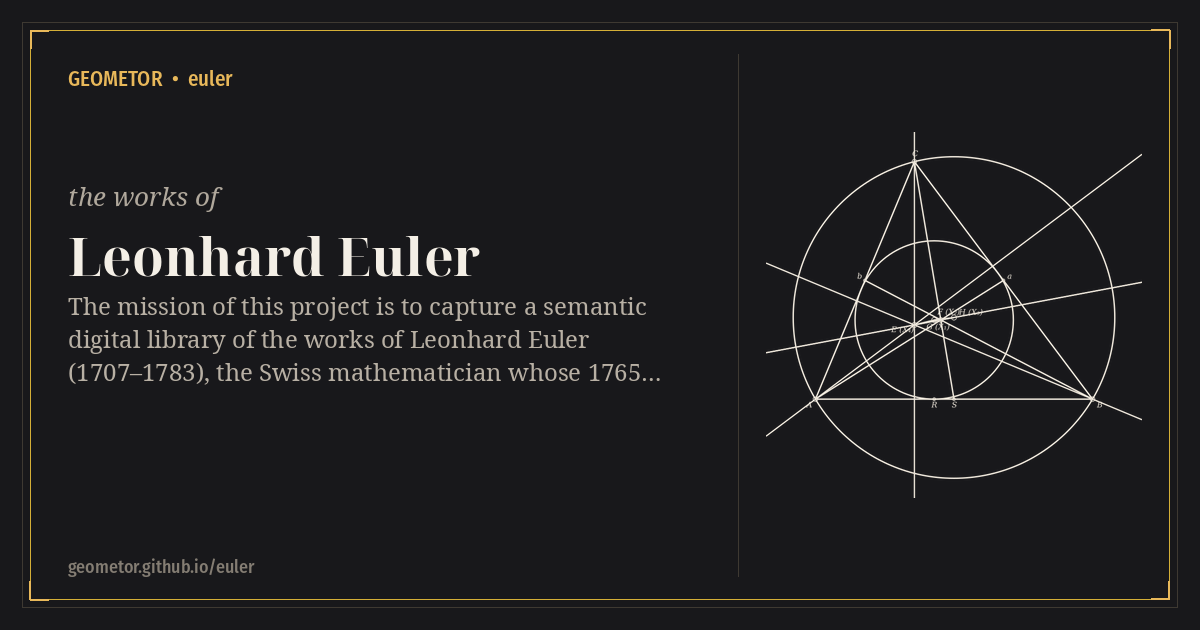
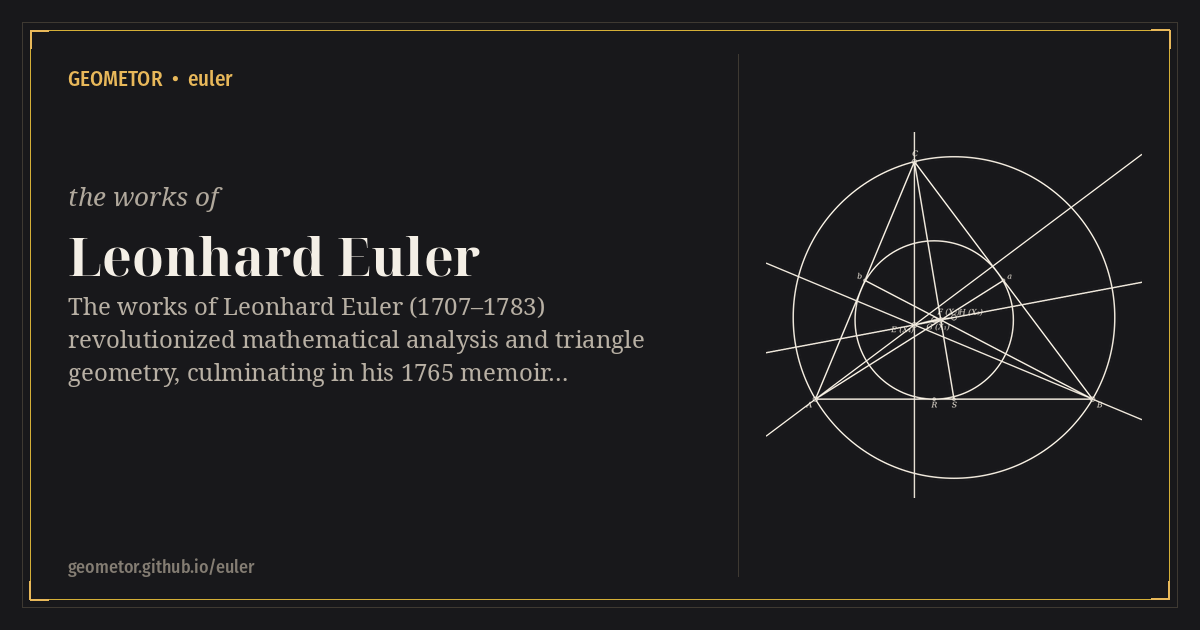
docs: add construction hero images, elevate English titles with native title tracks, and standardize track menus

Changed region(s): [[0.0617, 0.4524, 0.555, 0.6032]]

diff --git a/docsrc/solutio_facilis_1765/index.rst b/docsrc/solutio_facilis_1765/index.rst
@@ -1,28 +1,31 @@
 :navigation: header
 :order: 1
 :type: book
-:nav_title: Solutio Facilis (1765)
-:breadcrumb_title: Solutio Facilis
+:title: An Easy Solution of Certain Very Difficult Geometric Problems
+:nav_title: Easy Solution
+:breadcrumb_title: Easy Solution
 :layout: book
-:book_title: Solutio facilis problematum quorumdam geometricorum difficillimorum
+:book_title: An Easy Solution of Certain Very Difficult Geometric Problems
+:book_subtitle: Solutio facilis problematum quorumdam geometricorum difficillimorum (1765)
 :author: Leonhard Euler
 :year: 1765
+:tracks: English: index | Latin: title-la
 :excerpt: Euler's 1765 St. Petersburg memoir discovering the Euler line connecting the orthocenter, centroid, and circumcenter of every triangle, deriving the six mutual quadrances among the four classical triangle centers, and solving the inverse reconstruction problem via symmetric polynomials.
 
 .. _solutio_facilis_1765-index:
 .. _euler-1765-index:
 
-Solutio facilis problematum quorumdam geometricorum difficillimorum
-===================================================================
+An Easy Solution of Certain Very Difficult Geometric Problems
+=============================================================
 
-.. rubric:: *An Easy Solution of Certain Very Difficult Geometric Problems* — :person:`Leonhard Euler <euler>` (Eneström **E325**)
+.. rubric:: *Solutio facilis problematum quorumdam geometricorum difficillimorum* — :person:`Leonhard Euler <euler>` (1765, Eneström **E325**)
 
 .. container:: title-page
 
    | **Author:** :person:`Leonhard Euler <euler>`
-   | **First Edition (Latina, 1767):** *Novi Commentarii Academiae Scientiarum Imperialis Petropolitanae*, Tom. XI pro Anno MDCCLXV, Petropoli: Typis Academiae Scientiarum, MDCCLXVII, pp. 103–123, Tab. II Fig. 1–9 (*Opera Omnia*, Ser. I, Vol. 26, pp. 139–157).
+   | **First Edition (Latin, 1767):** *Novi Commentarii Academiae Scientiarum Imperialis Petropolitanae*, Tom. XI pro Anno MDCCLXV, Petropoli: Typis Academiae Scientiarum, MDCCLXVII, pp. 103–123, Tab. II Fig. 1–9 (*Opera Omnia*, Ser. I, Vol. 26, pp. 139–157).
    | **English Translation:** Original folio-verified translation curated for the GEOMETOR Digital Scriptorium.
-   | **Synchronized 4-Track Codex:** *English · Latina (1767) · Summary · Notes*, paired with exact symbolic verification in :mod:`geometor.euler`.
+   | **Synchronized 4-Track Codex:** *English · Latin · Summary · Notes*, paired with exact symbolic verification in :mod:`geometor.euler`.
 
 .. epigraph::
 
@@ -42,22 +45,22 @@ Table of Contents
 .. container:: toc-outline
 
    - **§§ 1–9 — The Four Classical Triangle Centers & Orthogonal Coordinates** *(pp. 103–107)*
-     (:ref:`English <euler-01-en>` · :ref:`Latina <euler-01-la>` · :ref:`Summary <euler-01-summary>` · :ref:`Notes <euler-01-notes>`)
+     (:ref:`English <euler-01-en>` · :ref:`Latin <euler-01-la>` · :ref:`Summary <euler-01-summary>` · :ref:`Notes <euler-01-notes>`)
 
      Enumeration of the four classical concurrency centers :math:`E = X(4)` (orthocenter), :math:`F = X(2)` (centroid), :math:`G = X(1)` (incenter), and :math:`H = X(3)` (circumcenter), formulation of the inverse determination problem, and derivation of their rational orthogonal coordinates on base :math:`AB = c`.
 
    - **§§ 10–18 — Symmetric Polynomials, Six Mutual Quadrances & The Euler Line** *(pp. 107–114)*
-     (:ref:`English <euler-02-en>` · :ref:`Latina <euler-02-la>` · :ref:`Summary <euler-02-summary>` · :ref:`Notes <euler-02-notes>`)
+     (:ref:`English <euler-02-en>` · :ref:`Latin <euler-02-la>` · :ref:`Summary <euler-02-summary>` · :ref:`Notes <euler-02-notes>`)
 
      Change of variables to the :term:`elementary symmetric polynomials <symmetric-polynomials>` :math:`p = a+b+c`, :math:`q = ab+ac+bc`, :math:`r = abc`, symmetric Heron expansion :math:`16A^2 = -p^4 + 4p^2q - 8pr`, closed-form derivation of all six squared inter-center distances (Formulas I–VI), discovery of the :term:`Euler Line <euler-line>` (:math:`FH = \tfrac{1}{2}EF`, :math:`EH = \tfrac{3}{2}EF`), and the compatibility law :math:`4GH^2 + 2EG^2 = 3EF^2 + 6FG^2`.
 
    - **§§ 19–24 — The Inverse Reconstruction Problem & Side-Length Cubic** *(pp. 114–118)*
-     (:ref:`English <euler-03-en>` · :ref:`Latina <euler-03-la>` · :ref:`Summary <euler-03-summary>` · :ref:`Notes <euler-03-notes>`)
+     (:ref:`English <euler-03-en>` · :ref:`Latin <euler-03-la>` · :ref:`Summary <euler-03-summary>` · :ref:`Notes <euler-03-notes>`)
 
      Reduction of the inverse problem (“given the four centers :math:`E, F, G, H`, construct the triangle”) to auxiliary invariants :math:`P = p^2`, :math:`Q = r/p`, :math:`R = r^2/(4A^2)`, exact cancellation of the quadratic term :math:`Q^2` yielding rational :math:`(P, q, Q)`, Viète's cubic :math:`z^3 - pz^2 + qz - r = 0`, and the integer benchmark :math:`(5, 6, 7) \implies z^3 - 18z^2 + 107z - 210 = 0`.
 
    - **§§ 25–34 — Collinear Centers, Isosceles Degeneracy & Casus Irreducibilis** *(pp. 118–123)*
-     (:ref:`English <euler-04-en>` · :ref:`Latina <euler-04-la>` · :ref:`Summary <euler-04-summary>` · :ref:`Notes <euler-04-notes>`)
+     (:ref:`English <euler-04-en>` · :ref:`Latin <euler-04-la>` · :ref:`Summary <euler-04-summary>` · :ref:`Notes <euler-04-notes>`)
 
      Analysis of the degenerate case in which :math:`G` lies on the Euler line :math:`EH` (forcing an isosceles triangle with rational root :math:`z = c`), the four positional regimes relative to midpoint :math:`I`, symmetric parameterization by :math:`(e, f, k) = (EG, GH, EH)`, reality *diorismos* inequalities, and angle trisection in the :term:`casus irreducibilis <casus-irreducibilis>`.
 
@@ -82,7 +85,7 @@ Scholarly Apparatus
 .. toctree::
    :maxdepth: 1
    :hidden:
-   :caption: First Latin Edition (1767)
+   :caption: Latin Edition
 
    01-four-centers-la
    02-six-distances-euler-line-la
@@ -102,3 +105,10 @@ Scholarly Apparatus
    03-reconstruction-cubic-notes
    04-collinear-isosceles-casus-summary
    04-collinear-isosceles-casus-notes
+
+.. toctree::
+   :maxdepth: 1
+   :hidden:
+   :caption: Title Pages
+
+   title-la

diff --git a/docsrc/solutio_facilis_1765/title-la.rst b/docsrc/solutio_facilis_1765/title-la.rst
@@ -1,0 +1,57 @@
+:type: book_title
+:layout: book
+:title: Solutio facilis problematum quorumdam geometricorum difficillimorum
+:book_title: Solutio facilis problematum quorumdam geometricorum difficillimorum
+:book_subtitle: Leonhardus Euler (Petropoli, MDCCLXVII)
+:author: Leonhardus Euler
+:toc_label: Conspectus
+:persons_label: Index Nominum
+:bibliography_label: Bibliographia
+:glossary_label: Glossarium
+:tracks: English: index | Latin: title-la
+
+.. _solutio_facilis_1765-title-la:
+
+Solutio facilis problematum quorumdam geometricorum difficillimorum
+===================================================================
+
+.. rubric:: *Leonhardus Euler* — Petropoli, Typis Academiae Scientiarum, MDCCLXVII (E325)
+
+.. container:: title-page
+
+   | **Auctor:** :person:`Leonhardus Euler <euler>`
+   | **Editio Princeps:** *Novi Commentarii Academiae Scientiarum Imperialis Petropolitanae*, Tom. XI pro Anno MDCCLXV (1767), pp. 103–123
+
+----
+
+Conspectus Totius Operis
+------------------------
+
+§§ 1–9 — De Quatuor Punctis Notabilibus Trianguli et Coordinatis Orthogonis
+~~~~~~~~~~~~~~~~~~~~~~~~~~~~~~~~~~~~~~~~~~~~~~~~~~~~~~~~~~~~~~~~~~~~~~~~~~~~
+
+:ref:`Latin <euler-01-la>` · :ref:`English <euler-01-en>` · :ref:`Summary <euler-01-summary>` · :ref:`Notes <euler-01-notes>`
+
+§§ 10–18 — Functiones Symmetricae, Sex Distantiae Mutuae et Linea Euleriana
+~~~~~~~~~~~~~~~~~~~~~~~~~~~~~~~~~~~~~~~~~~~~~~~~~~~~~~~~~~~~~~~~~~~~~~~~~~~~
+
+:ref:`Latin <euler-02-la>` · :ref:`English <euler-02-en>` · :ref:`Summary <euler-02-summary>` · :ref:`Notes <euler-02-notes>`
+
+§§ 19–24 — Problema Inversum et Aequatio Cubica Laterum Trianguli
+~~~~~~~~~~~~~~~~~~~~~~~~~~~~~~~~~~~~~~~~~~~~~~~~~~~~~~~~~~~~~~~~~
+
+:ref:`Latin <euler-03-la>` · :ref:`English <euler-03-en>` · :ref:`Summary <euler-03-summary>` · :ref:`Notes <euler-03-notes>`
+
+§§ 25–34 — De Casu Collineari, Triangulo Isoscele et Casu Irreducibili
+~~~~~~~~~~~~~~~~~~~~~~~~~~~~~~~~~~~~~~~~~~~~~~~~~~~~~~~~~~~~~~~~~~~~~~
+
+:ref:`Latin <euler-04-la>` · :ref:`English <euler-04-en>` · :ref:`Summary <euler-04-summary>` · :ref:`Notes <euler-04-notes>`
+
+----
+
+Apparatus Criticus
+------------------
+
+* :ref:`Bibliographia <bibliography>`
+* :ref:`Index Nominum <persons>`
+* :ref:`Glossarium <glossary>`

diff --git a/README.rst b/README.rst
@@ -3,6 +3,11 @@ GEOMETOR • euler
 
 **Visit the Online Archive:** https://geometor.github.io/euler/
 
+.. image:: docsrc/_static/constructions/euler_1765_centers.svg
+   :alt: GEOMETOR • euler featured geometric construction
+   :target: https://geometor.github.io/euler/
+   :align: center
+
 **Leonhard Euler • Solutio facilis problematum geometricorum (E325) • semantic digital archive**
 
 Mission
@@ -13,7 +18,7 @@ Mission
 Books in This Archive
 ---------------------
 
-- **`Solutio facilis problematum quorumdam geometricorum difficillimorum <https://geometor.github.io/euler/solutio_facilis_1765/>`_** — Euler's celebrated 1765 St. Petersburg memoir discovering the collinearity of the orthocenter :math:`H`, centroid :math:`G`, and circumcenter :math:`O`, and the distance invariant :math:`HG = 2GO`.
+- **`An Easy Solution of Certain Very Difficult Geometric Problems <https://geometor.github.io/euler/solutio_facilis_1765/>`_** — Euler's celebrated 1765 St. Petersburg memoir (*Solutio facilis problematum quorumdam geometricorum difficillimorum*) discovering the collinearity of the orthocenter :math:`H`, centroid :math:`G`, and circumcenter :math:`O`, and the distance invariant :math:`HG = 2GO`.
 
 Repository Contents
 -------------------

diff --git a/docsrc/solutio_facilis_1765/02-six-distances-euler-line-la.rst b/docsrc/solutio_facilis_1765/02-six-distances-euler-line-la.rst
@@ -1,5 +1,5 @@
 :title: Euler (1765) §§ 10–18 — Latina (1767)
-:track_label: Latina (1767)
+:track_label: Latin
 :layout: book
 
 .. _euler-02-la:

diff --git a/docsrc/solutio_facilis_1765/03-reconstruction-cubic-la.rst b/docsrc/solutio_facilis_1765/03-reconstruction-cubic-la.rst
@@ -1,5 +1,5 @@
 :title: Euler (1765) §§ 19–24 — Latina (1767)
-:track_label: Latina (1767)
+:track_label: Latin
 :layout: book
 
 .. _euler-03-la:

diff --git a/docsrc/solutio_facilis_1765/04-collinear-isosceles-casus-la.rst b/docsrc/solutio_facilis_1765/04-collinear-isosceles-casus-la.rst
@@ -1,5 +1,5 @@
 :title: Euler (1765) §§ 25–34 — Latina (1767)
-:track_label: Latina (1767)
+:track_label: Latin
 :layout: book
 
 .. _euler-04-la:

diff --git a/docsrc/solutio_facilis_1765/01-four-centers-la.rst b/docsrc/solutio_facilis_1765/01-four-centers-la.rst
@@ -1,5 +1,5 @@
 :title: Euler (1765) §§ 1–9 — Latina (1767)
-:track_label: Latina (1767)
+:track_label: Latin
 :layout: book
 
 .. _euler-01-la:
